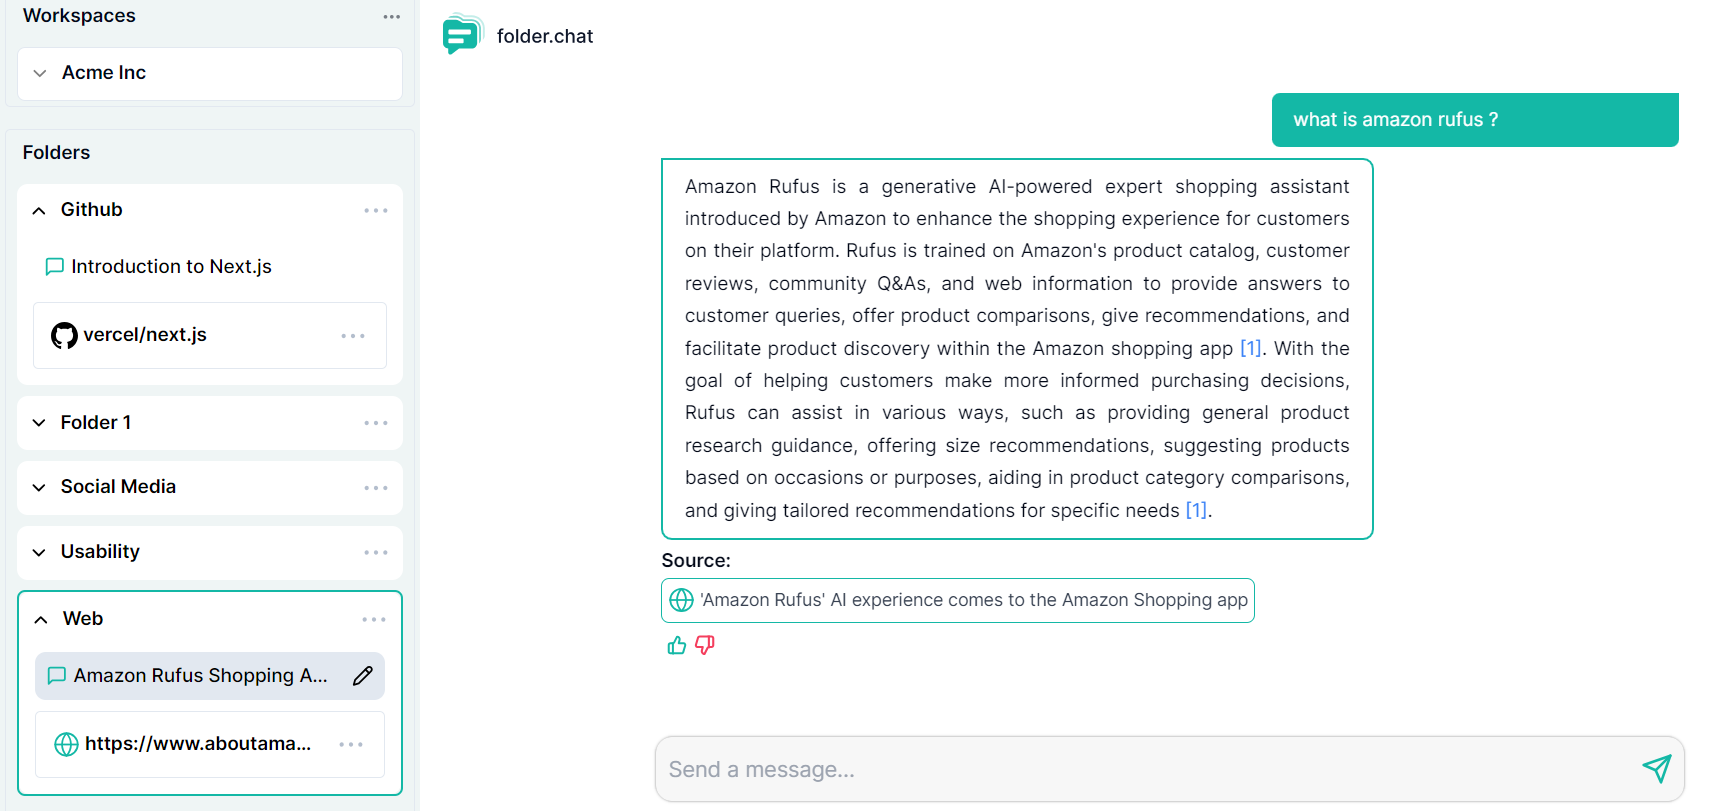
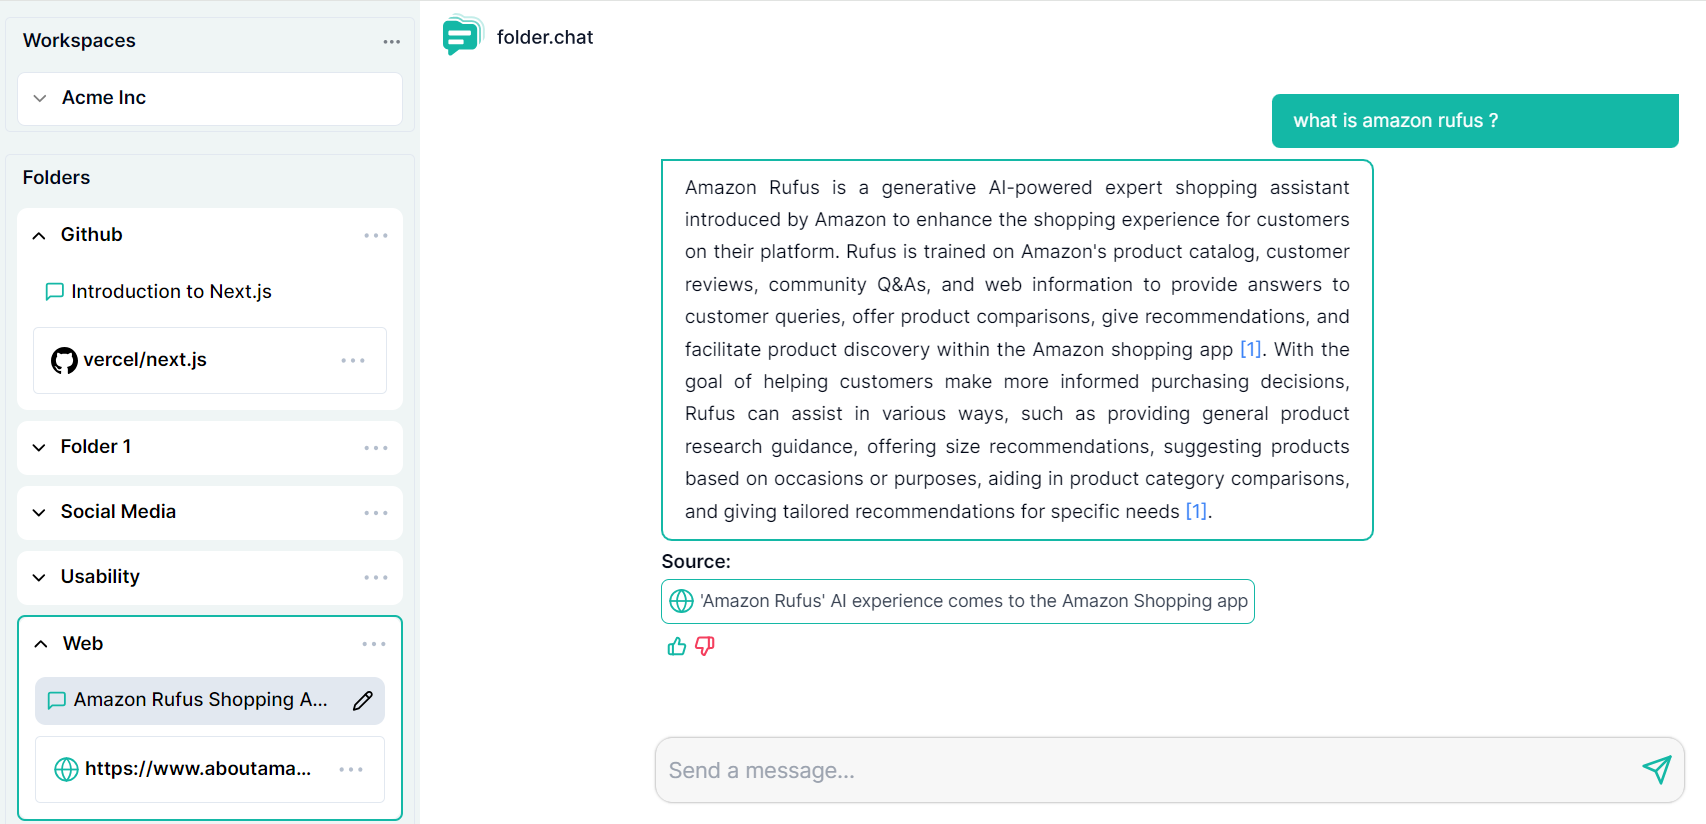
fix height & width

diff --git a/app/page.jsx b/app/page.jsx
@@ -142,17 +142,17 @@ export default function Home() {
                 <div className="sm:m-auto lg:m-0 w-fit">
                 <Image
                   alt="Image"
-                  className="rounded-md z-50 lg:w-full lg:h-full w-72 h-40"
-                  height={400}
+                  className="rounded-md z-50 lg:w-[500px] lg:h-full w-72 h-40"
+                  height={1000}
                   src={'/assets/indexing.png'}
-                  width={400}
+                  width={1000}
                 />
                 <Image
                   alt="Image"
-                  className="lg:-mt-24 lg:ml-24 rounded-lg w-72 h-40 lg:w-full lg:h-full -mt-14 ml-8"
-                  height={450}
+                  className="lg:-mt-24 lg:ml-24 rounded-lg w-72 h-40 lg:w-[500px] lg:h-full -mt-14 ml-8"
+                  height={1000}
                   src={'/assets/folderchat-new.png'}
-                  width={400}
+                  width={1000}
                 />
                 </div>
               </div>
@@ -192,10 +192,10 @@ export default function Home() {
               <div className="w-full lg:w-1/2">
                 <Image
                   alt="Image"
-                  className="m-auto rounded-md"
-                  height={500}
+                  className="m-auto rounded-md w-72 h-40 lg:w-[500px] lg:h-full"
+                  height={1000}
                   src={'/assets/githubSS.png'}
-                  width={580}
+                  width={1000}
                 />
               </div>
             </div>
@@ -216,18 +216,19 @@ export default function Home() {
                 <div className="sm:m-auto lg:m-0 w-fit">
                 <Image
                   alt="Image"
-                  className="rounded-md z-50 lg:w-full lg:h-full w-72 h-40"
-                  height={400}
+                  className="rounded-md z-50 lg:w-[500px] lg:h-full w-72 h-40"
+                  height={1000}
                   src={'/assets/upload-new.png'}
-                  width={400}
+                  width={1000}
                 />
                 <Image
                   alt="Image"
-                  className="lg:-mt-24 lg:ml-24 rounded-lg w-72 h-40 lg:w-full lg:h-full -mt-14 ml-8"
-                  height={450}
+                  className="lg:-mt-24 lg:ml-24 rounded-lg w-72 h-40 lg:w-[500px] lg:h-full -mt-14 ml-8"
+                  height={1000}
                   src={'/assets/webSS.png'}
-                  width={400}
+                  width={1000}
                 />
+                
                 </div>
               </div>
             </div>
